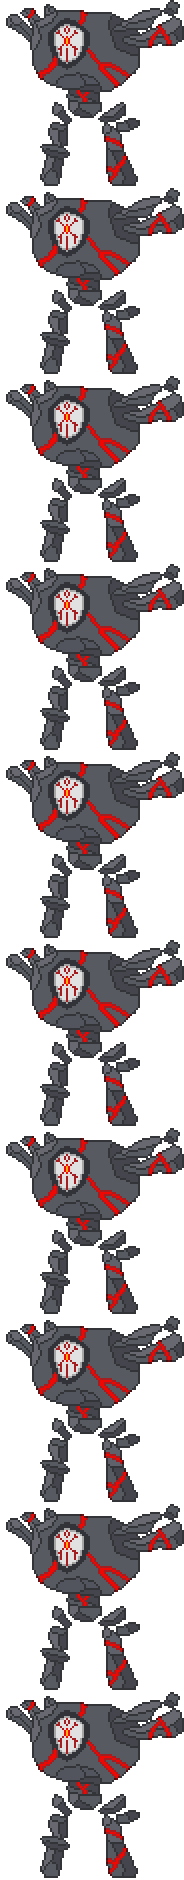
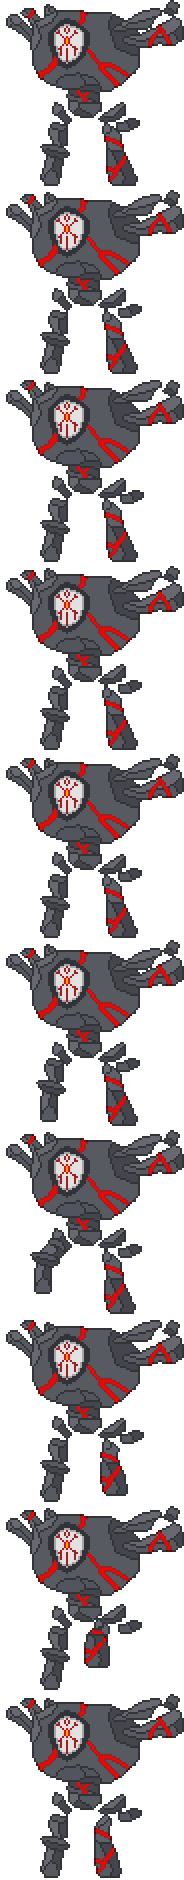
More sprite work
Added animation to Petra Gigas body sprite. Added sprite for hand spawning projectile.

diff --git a/Projectiles/NPCs/Enemies/PetraGigas/HandSpawner.cs b/Projectiles/NPCs/Enemies/PetraGigas/HandSpawner.cs
@@ -7,6 +7,8 @@ using Terraria.ModLoader;
 using Terraria.GameInput;
 using static Terraria.ModLoader.ModContent;
 using TRRA.Dusts;
+using Terraria.DataStructures;
+using System.Reflection.Metadata;
 
 namespace TRRA.Projectiles.NPCs.Enemies.PetraGigas
 {
@@ -17,24 +19,25 @@ namespace TRRA.Projectiles.NPCs.Enemies.PetraGigas
 		public override void SetStaticDefaults()
 		{
 			DisplayName.SetDefault("Geist Hand Spawner");
-			Main.projFrames[Projectile.type] = 6;
+			Main.projFrames[Projectile.type] = 1;
 		}
 
 		public override void SetDefaults()
 		{
-			Projectile.width = 52;
-			Projectile.height = 70;
+			Projectile.width = 78;
+			Projectile.height = 78;
 			Projectile.aiStyle = 0;
 			Projectile.tileCollide = false;
 			Projectile.ignoreWater = true;
 			Projectile.friendly = true;
 			Projectile.hostile = false;
 			Projectile.timeLeft = 90;
-		}
+        }
 
 		public override Color? GetAlpha(Color lightColor)
 		{
-			return new Color(255, 255, 255, 205);
+			int timeAlpha = (int)(Projectile.timeLeft * (255.0f/90));
+			return new Color(timeAlpha, timeAlpha, timeAlpha, timeAlpha);
 		}
 
 		public override bool? CanHitNPC(NPC target)
@@ -47,12 +50,19 @@ namespace TRRA.Projectiles.NPCs.Enemies.PetraGigas
 			return false;
         }
 
-		public override void AI()
+        public override void OnSpawn(IEntitySource source)
 		{
-			if(Projectile.timeLeft <= 60 && !handSpawned)
+            Projectile.rotation += (float)(Math.PI / 180) * Main.rand.Next(0,361);
+        }
+
+        public override void AI()
+		{
+            Projectile.rotation += Projectile.timeLeft * (0.012f / 90) * Projectile.ai[1];
+            Projectile.scale = 0.5f + ((float)Projectile.timeLeft / 180);
+            if (Projectile.timeLeft <= 60 && !handSpawned)
 			{
 				handSpawned = true;
-				Vector2 targetPosition = Main.player[(int)Projectile.ai[1]].position;
+				Vector2 targetPosition = Main.player[(int)Projectile.ai[0]].position;
                 float projXVelocity = targetPosition.X - Projectile.position.X + (float)Main.rand.Next(-20, 21);
                 float projYVelocity = targetPosition.Y - Projectile.position.Y + (float)Main.rand.Next(-20, 21);
                 float num20 = (float)Math.Sqrt(projXVelocity * projXVelocity + projYVelocity * projYVelocity);
@@ -66,14 +76,6 @@ namespace TRRA.Projectiles.NPCs.Enemies.PetraGigas
 			if (Main.rand.NextBool(5))
 			{
 				Dust.NewDust(Projectile.position, Projectile.width, Projectile.height, DustID.RedTorch, Projectile.velocity.X * 0.25f, Projectile.velocity.Y * 0.25f, 150, default, 0.7f);
-			}
-			if (++Projectile.frameCounter >= 5)
-			{
-				Projectile.frameCounter = 0;
-				if (++Projectile.frame >= 6)
-				{
-					Projectile.frame = 0;
-				}
 			}
 		}
 

diff --git a/NPCs/Enemies/PetraGigas.cs b/NPCs/Enemies/PetraGigas.cs
@@ -40,7 +40,7 @@ namespace TRRA.NPCs.Enemies
 		}
 
 		public override void SetDefaults() {
-			NPC.width = 164;
+			NPC.width = 104;
 			NPC.height = 154;
 			NPC.aiStyle = -1;
 			NPC.damage = 140;
@@ -147,8 +147,9 @@ namespace TRRA.NPCs.Enemies
 				if (NPC.ai[1] >= 300f && Main.netMode != NetmodeID.MultiplayerClient)
 				{
 					NPC.ai[1] = 0f; // Reset the timer
-					NPC.ai[0] = Main.rand.Next(1, 4); // Selects between attacks 1-3
-					NPC.ai[2] = NPC.direction;
+                    //NPC.ai[0] = Main.rand.Next(1, 4); // Selects between attacks 1-3
+                    NPC.ai[0] = 3; // DELETE LATER
+                    NPC.ai[2] = NPC.direction;
 					NPC.ai[3] = NPC.target;
 					NPC.netUpdate = true;
 				}
@@ -189,7 +190,7 @@ namespace TRRA.NPCs.Enemies
 					spawnPosition.Y += Main.rand.NextBool() ? yOffset : -yOffset;
 
                     // MAKE SURE TO ADJUST DAMAGE AND KNOCKBACK
-                    Projectile.NewProjectile(NPC.GetSource_FromThis(), spawnPosition, new(0), ProjectileType<HandSpawner>(), NPC.damage, 1.0f, 0, NPC.target);
+                    Projectile.NewProjectile(NPC.GetSource_FromThis(), spawnPosition, new(0), ProjectileType<HandSpawner>(), NPC.damage, 1.0f, 0, NPC.target, Main.rand.NextBool() ? 1 : -1);
                 }
                 if (NPC.ai[1] >= 240f) // Stop attacking and reset to netural state
 				{
